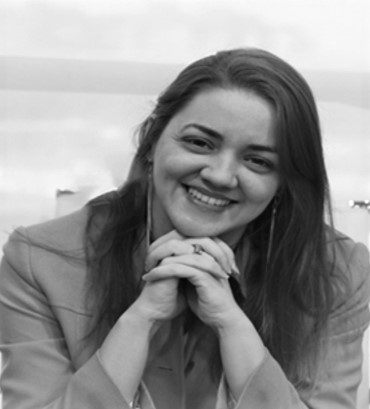
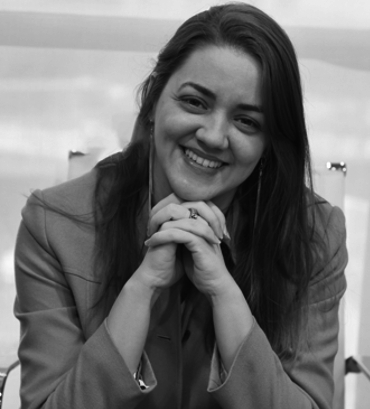
foto grande fix

diff --git a/assets/css/theme.css b/assets/css/theme.css
@@ -768,7 +768,7 @@ License URI:
 }
 .tm_img img {
   width: 100%;
-  height: 380px;
+  height: auto;
   max-width: none;
   width: calc(100% + 20px);
   -webkit-transition: opacity 0.35s, -webkit-transform 0.35s;
